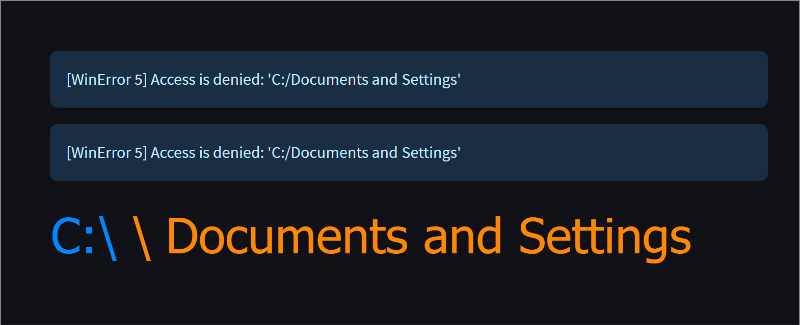
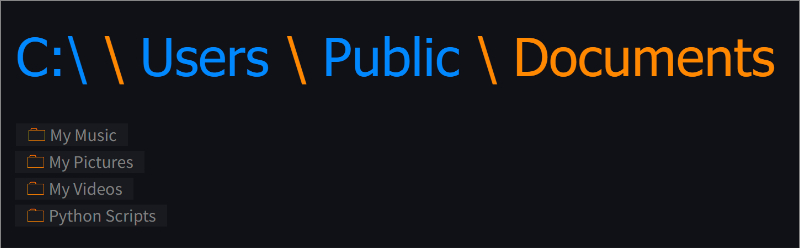
yay! beginnings

diff --git a/app.py b/app.py
@@ -1,0 +1,173 @@
+from pathlib import Path
+from st_click_detector import click_detector as did_click
+import os
+import streamlit as st
+
+
+st.cache(lambda: st.session_state, allow_output_mutation=True)
+
+
+def get_subfolders_and_files(folder_path):
+    subfolders = []
+    files = []
+    folder_path = os.path.normpath(folder_path).replace("\\", "/")
+    try:
+        for item in os.listdir(folder_path):
+            item_path = os.path.join(folder_path, item)
+
+            # Check permissions
+            if not os.access(item_path, os.R_OK):
+                print(f"Permission denied for {item_path}")
+                continue
+
+            # Check symbolic link
+            if os.path.islink(item_path):
+                print(f"{item_path} is a symbolic link")
+                continue
+
+            if os.path.isdir(item_path):
+                subfolders.append({"name": item, "path": os.path.normpath(item_path)})
+            else:
+                files.append({"name": item, "path": os.path.normpath(item_path)})
+        return subfolders, files
+    except PermissionError as e:
+        st.info(e)
+        return subfolders, files
+
+
+def get_folder_list(folder_path):
+    folder_list = []
+    current_path = ""
+    current_path = folder_path.replace("\\", "/")
+    split_drive = Path(current_path).parts
+    folders = split_drive
+    for folder in folders:
+        current_path = os.path.join(current_path, folder)
+        folder_list.append({"name": folder, "path": current_path})
+    return folder_list
+
+
+def generate_folder_links(folder_path):
+    paths = st.session_state["crumbs"]
+    subfolders, files = get_subfolders_and_files(folder_path)
+    crumbs = {crumb["name"]: crumb["path"] for crumb in paths}
+    current_crumb = paths[-1]["name"]
+    st.session_state[
+        "dir_list"
+    ] = f'<font size={st.session_state["font_size"]} face="tahoma" color="{st.session_state["color_2"]}"> \ </font>'.join(
+        [
+            f'<a href="#" id="{crumbs[crumb["name"]]}"><font size={st.session_state["font_size"]} face="tahoma" color="{st.session_state["color_1"]}">{crumb["name"]}</font></a>'
+            for crumb in paths[:-1]
+        ]
+        + [
+            f'<font size={st.session_state["font_size"]} face="tahoma" color="{st.session_state["color_2"]}">{current_crumb}</font>'
+        ]
+    )
+    folder_links = {sub["name"]: sub["path"] for sub in subfolders}
+    file_links   = {file["name"]: file["path"] for file in files}
+    folder_list = None
+    if len(subfolders) > 0:
+        num_of_columns = 3
+        htmlstyle = """<style>
+        a:link, a:visited {
+          background-color: #79797918;
+          color: gray;
+          padding: 0px 10px;
+          text-align: left;
+          text-decoration: none;
+          display: column-count:5;
+
+        }
+        a:hover, a:active {
+          background-color: #98989836;
+        }
+        </style>"""
+        folder_list = [
+            f'<a href="#" id="{folder_links[subfolder["name"]]}">'
+            f'{htmlstyle}<font face="tahoma" color="{st.session_state["color_2"]}">🗀</font> {subfolder["name"]}'
+            f"</a>"
+            for subfolder in subfolders
+        ]
+        folder_list += [
+            f'<a href="{file_links[file["name"]]}">'
+            f'{htmlstyle}<font face="tahoma" color="{st.session_state["color_2"]}"> - </font> {file["name"]}'
+            f"</a>"
+            for file in files
+        ]
+    st.session_state["dirs"] = "<br>".join(folder_list or [])
+
+
+def update_paths():
+    my_path = st.session_state.get("mypath", os.getcwd())
+    try:
+        subfolders, files = get_subfolders_and_files(my_path)
+        st.session_state["subfolders"] = subfolders
+        st.session_state["files"] = files
+    except Exception as e:
+        st.exception(e)
+    try:
+        crumbs = get_folder_list(my_path)
+        st.session_state["crumbs"] = crumbs
+    except Exception as e:
+        st.exception(e)
+
+
+def update_dir_list():
+    st.session_state["new_crumb"] = did_click(st.session_state["dir_list"], None)
+    if st.session_state["new_crumb"]:
+        update_paths()
+        st.session_state["run_again"] = True
+
+
+def update_dirs():
+    st.session_state["new_subfolder"] = did_click(st.session_state["dirs"], None)
+    if st.session_state["new_subfolder"]:
+        update_paths()
+        st.session_state["run_again"] = True
+
+
+def new_path():
+    current_path = st.session_state.get("mypath", os.getcwd())
+    new_crumb = st.session_state.get("new_crumb")
+    new_subfolder = st.session_state.get("new_subfolder")
+    if new_crumb:
+        st.session_state["new_crumb"] = None
+        st.session_state["new_path"] = new_crumb
+    elif new_subfolder:
+        st.session_state["new_path"] = new_subfolder
+    else:
+        st.session_state["new_path"] = current_path
+
+
+def update_new_path():
+    new_path()
+    update_paths()
+    generate_folder_links(st.session_state["new_path"])
+    update_dir_list()
+    update_dirs()
+    new_path()
+    return st.session_state["new_path"]
+
+
+st.session_state["font_size"] = "24"
+st.session_state["color_1"] = "#0088ff"
+st.session_state["color_2"] = "#ff8800"
+
+if "new_path" not in st.session_state:
+    update_paths()
+    st.session_state["new_path"] = st.sidebar.text_input(
+        "mypath", os.getcwd(), key="mpath"
+    )
+    generate_folder_links(st.session_state["new_path"])
+else:
+    st.session_state["mypath"] = st.session_state.get("new_path", os.getcwd())
+
+
+st.session_state["mypath"] = update_new_path()
+
+if st.session_state.get("run_again"):
+    st.session_state["run_again"] = False
+    update_paths()
+    st.experimental_rerun()
+
+st.session_state["mypath"]
